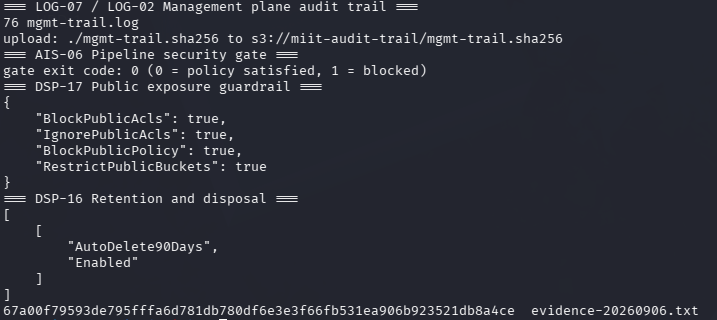
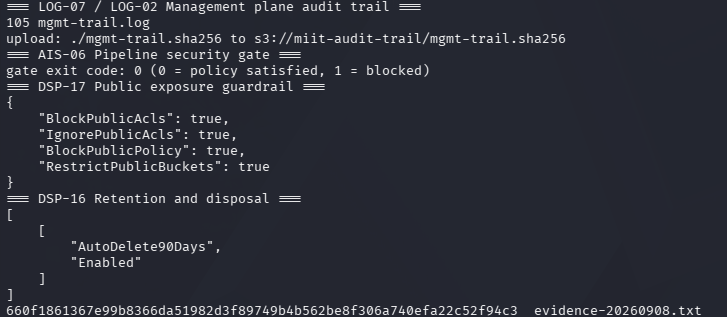
Update the repo for the new line of code

diff --git a/Assignment/README.md b/Assignment/README.md
@@ -450,17 +450,31 @@ sha256sum "$OUT"
 chmod +x evidence-collection.sh
 
 46. Run the script
-./evidence-collection.sh
-
+./evidence-collection.sh 
 MediPay technical evidence pack
-Collected: Sun Sep  6 01:47:45 PM UTC 2026 by Syed
-=== IAM-05 Least privilege on execution roles ===
+Collected: Mon Sep  7 06:52:24 PM UTC 2026 by Syed
+=== IAM-05 Least Privilege ===
 {
-    "PolicyNames": [
-        "PatientLookupReadOnly"
-    ]
+    "RoleName": "patient-lookup-role",
+    "PolicyName": "PatientLookupReadOnly",
+    "PolicyDocument": {
+        "Version": "2012-10-17",
+        "Statement": [
+            {
+                "Effect": "Allow",
+                "Action": [
+                    "s3:GetObject",
+                    "s3:ListBucket"
+                ],
+                "Resource": [
+                    "arn:aws:s3:::medipay-patient-records",
+                    "arn:aws:s3:::medipay-patient-records/confidential/*"
+                ]
+            }
+        ]
+    }
 }
-=== IVS Tenant isolation & segmentation ===
+=== IVS-06 Segmentation and Segregation ===
 {
   "Version": "2012-10-17",
   "Statement": [
@@ -500,7 +514,7 @@ Collected: Sun Sep  6 01:47:45 PM UTC 2026 by Syed
     ]
 }
 === LOG-07 / LOG-02 Management plane audit trail ===
-76 mgmt-trail.log
+105 mgmt-trail.log
 upload: ./mgmt-trail.sha256 to s3://miit-audit-trail/mgmt-trail.sha256
 === AIS-06 Pipeline security gate ===
 gate exit code: 0 (0 = policy satisfied, 1 = blocked)
@@ -518,5 +532,5 @@ gate exit code: 0 (0 = policy satisfied, 1 = blocked)
         "Enabled"
     ]
 ]
-67a00f79593de795fffa6d781db780df6e3e3f66fb531ea906b923521db8a4ce  evidence-20260906.txt
+660f1861367e99b8366da51982d3f89749b4b562be8f306a740efa22c52f94c3  evidence-20260908.txt
 
